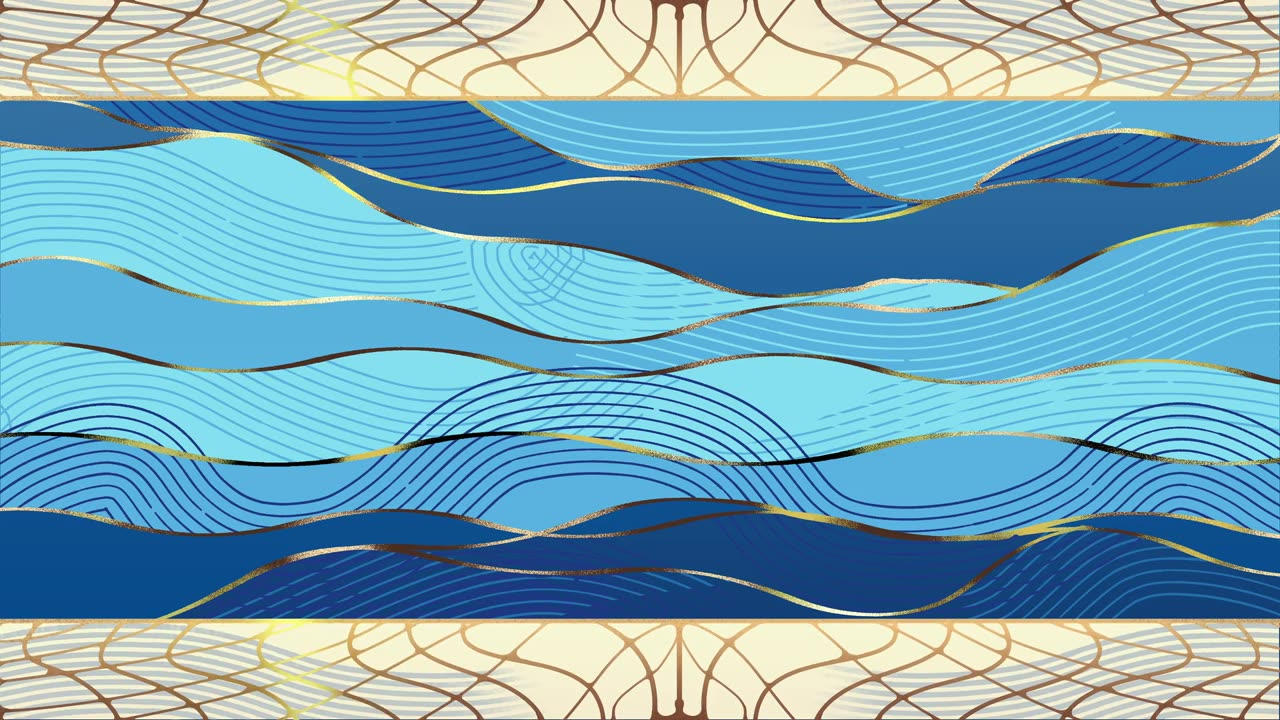
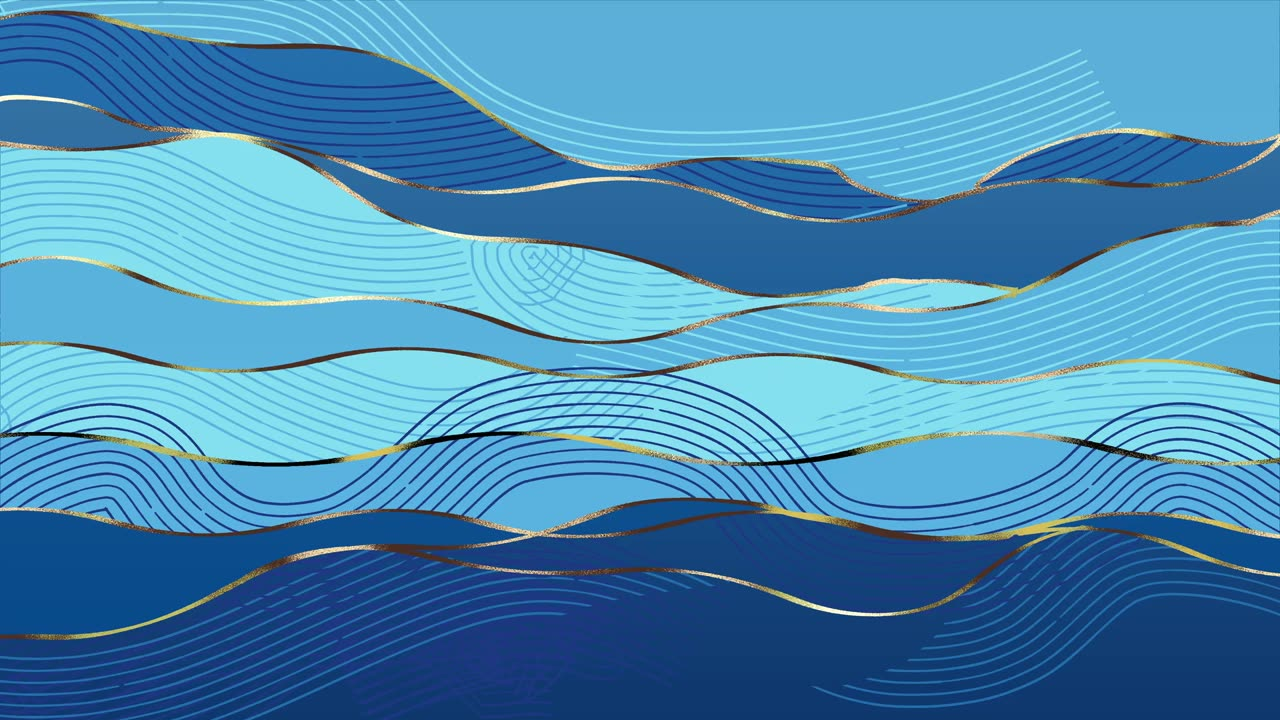
Still frames are the video's first frame again; fill the whole screen when opened from the Home Screen

diff --git a/src/styles/global.css b/src/styles/global.css
@@ -33,7 +33,7 @@ button {
   position: fixed;
   inset: 0;
   width: 100%;
-  height: 100dvh; /* dvh excludes mobile browser chrome */
+  height: 100%;   /* inset: 0 already spans the whole screen, including the area behind the iPhone home bar when opened from the Home Screen */
   overflow: hidden;
 }
 
